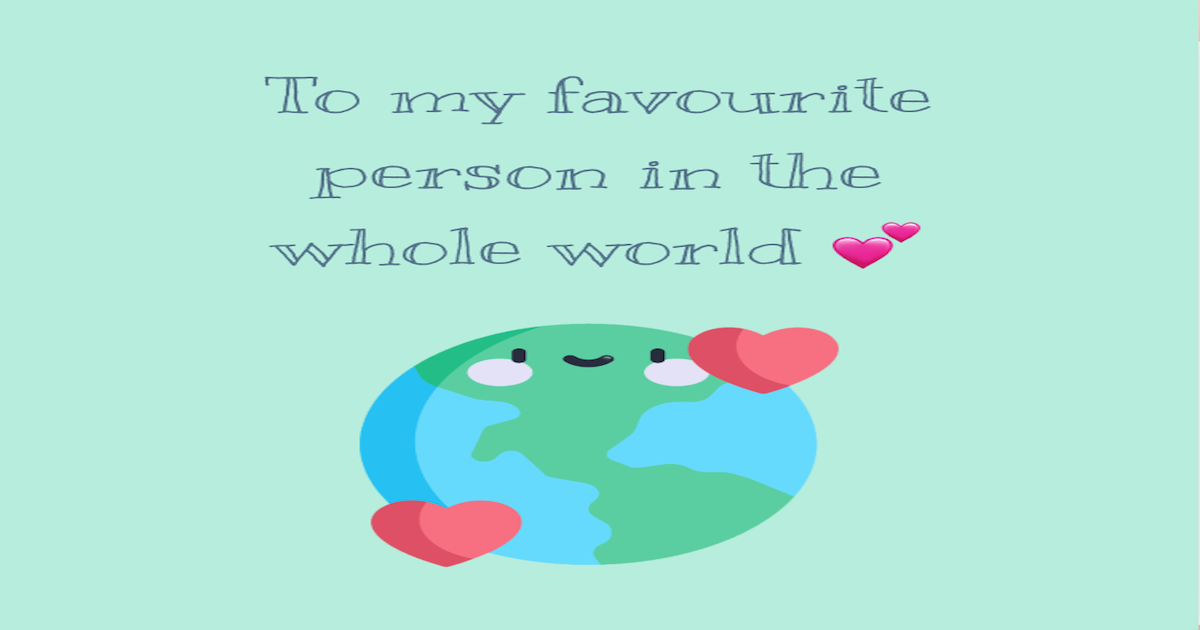
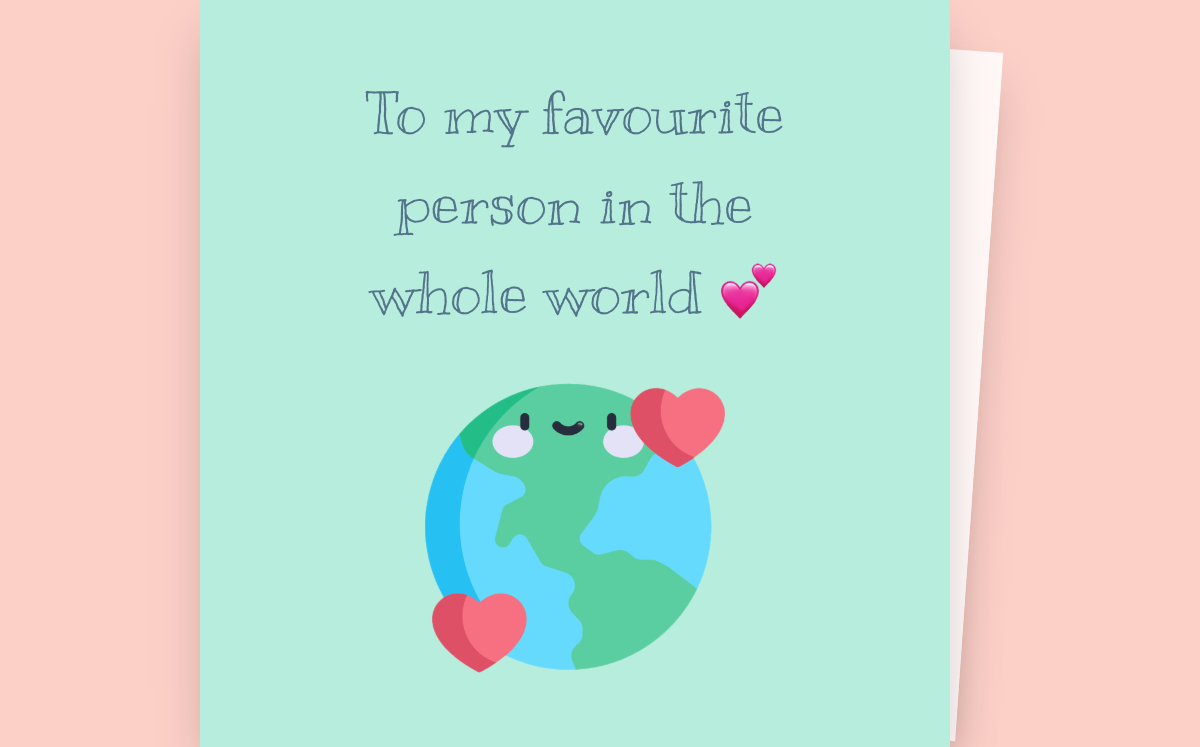
made updates

diff --git a/app/page.tsx b/app/page.tsx
@@ -115,30 +115,17 @@ export default function Home() {
   // false = card1 (cover) on top; true = card2 (message) on top
   const [flipped, setFlipped] = useState(false);
   const [animating, setAnimating] = useState(false);
-  const [modal, setModal] = useState(false);
   const [showConfetti, setShowConfetti] = useState(false);
-  const [loading, setLoading] = useState(false);
+  const [loading, setLoading] = useState(true);
 
-  const triggerConfetti = () => {
-    setLoading(true);
-    // Sequence the loading screen first, then clear it and burst confetti
-    setTimeout(() => {
+  // Trigger initial loading screen, then show confetti
+  useEffect(() => {
+    const timer = setTimeout(() => {
       setLoading(false);
       setShowConfetti(true);
       setTimeout(() => setShowConfetti(false), 5000);
     }, 2800);
-  };
-  useEffect(() => {
-    if (!modal) {
-      setTimeout(() => {
-        setLoading(true);
-        setTimeout(() => {
-          setLoading(false);
-          setShowConfetti(true);
-          setTimeout(() => setShowConfetti(false), 5000);
-        }, 2800);
-      }, 1000);
-    }
+    return () => clearTimeout(timer);
   }, []);
 
   const flip = (toFlipped: boolean) => {
@@ -176,38 +163,7 @@ export default function Home() {
         </div>
       )}
 
-      {/* modal */}
-     {
-      modal && (
-        <div className="absolute inset-0 z-50 bg-[black]/20 backdrop-blur-[10px] flex flex-col items-center justify-center">
-        <div className="relative flex flex-col md:gap-4 justify-between items-center bg-[#7e7ba2] lg:w-[40%] md:w-[50%] md:w-[80%]  w-[90%] md:h-[50%] h-[80%] rounded-lg p-15">
-          
-          <div 
-            className='absolute w-[50px] h-[50px] bg-red-400 top-[-1px] right-[-1px] rounded-lg cursor-pointer flex items-center justify-center' 
-            onClick={triggerConfetti}
-          >
-            <X size={30} color="white" />
-          </div>
 
-
-          <div>
-            <h2 className='text-[white] md:text-3xl text-xl font-patrick'>Blow Out The Candles..! 👀</h2>
-          </div>
-          <div className='md:w-[300px] md:h-[300px] w-[250px] h-[250px] bg-[#BFEFE1] flex flex-col items-center justify-center'>
-            <p className='text-black'>Picture here</p>
-          </div>
-          <div className='flex justify-center w-full'>
-            <button 
-              onClick={triggerConfetti}
-              className="text-[white] font-patrick text-[20px] px-5 py-2 bg-[#75c2f4] w-fit rounded-[15px] shadow-[0px_4px_0px_-1px_rgba(177,158,173,0.8)] cursor-pointer"
-            >
-              Allow Access to Mic
-            </button>
-          </div>
-        </div>
-      </div>
-      )
-     }
 
 
 